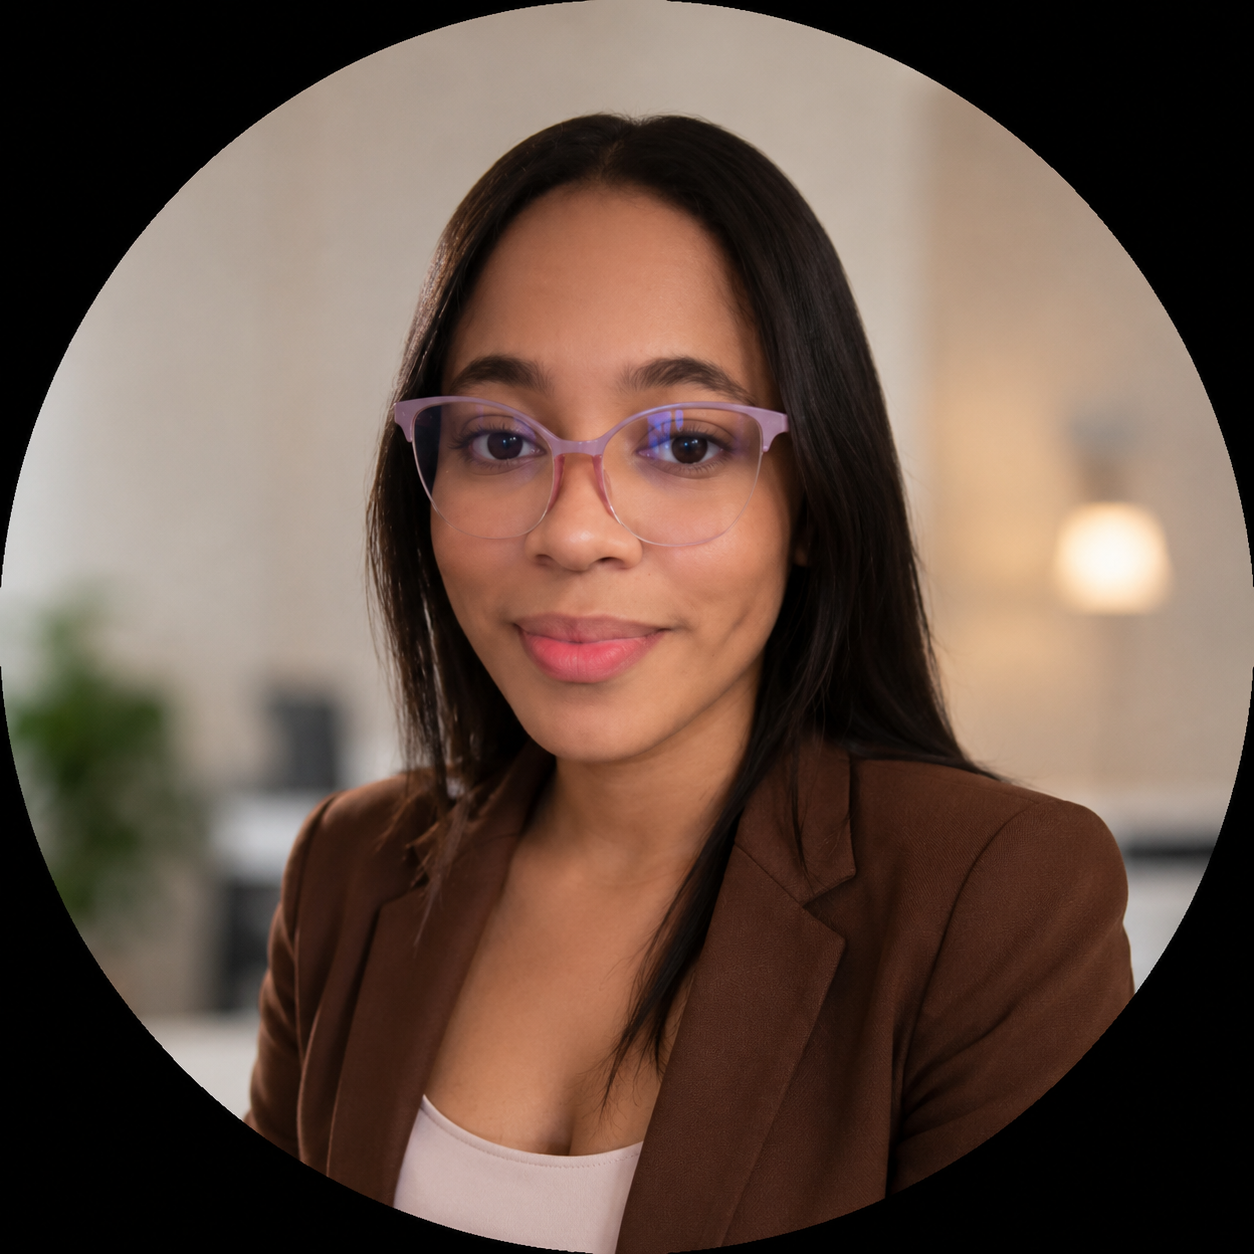
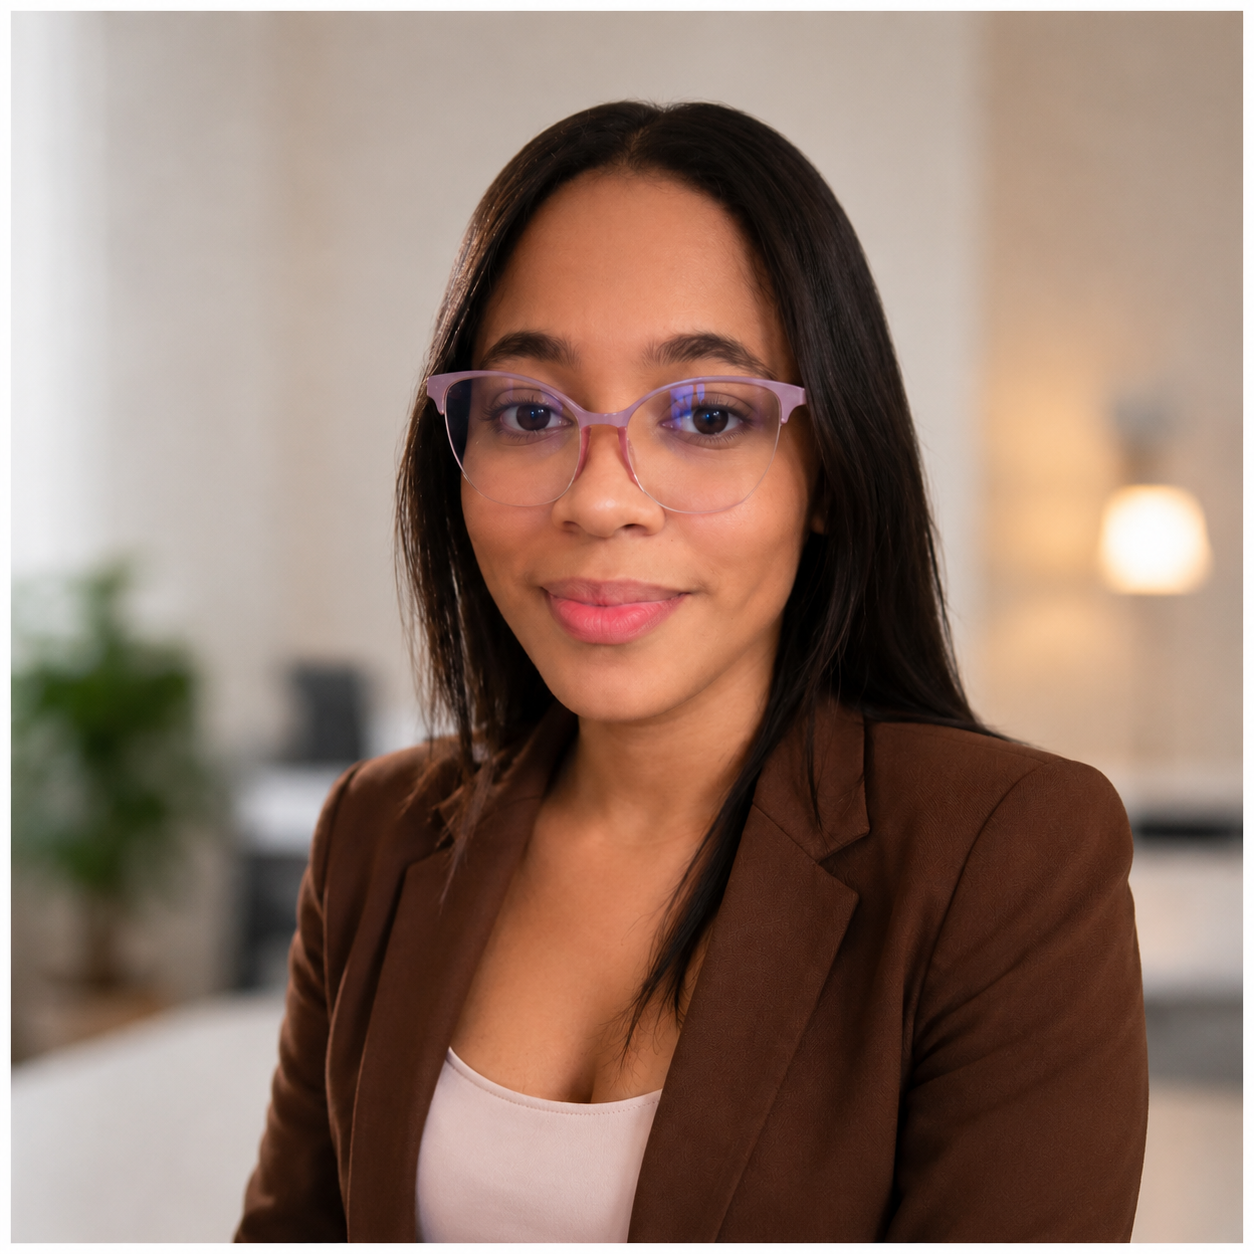
cambios del portafolio

diff --git a/index.html b/index.html
@@ -37,7 +37,7 @@
 
                     <p class="hero-text">
                         Desarrollo aplicaciones web modernas, escalables y orientadas a
-                        resultados utilizando Java, Spring Boot, React y bases de datos SQL.
+                        resultados utilizando Java, Spring Boot, y bases de datos SQL.
                     </p>
 
                     <div class="hero-buttons">
@@ -58,34 +58,17 @@
                     <div class="profile-card">
                         <div class="profile-card-info">
                             <h3>Stefany López</h3>
-                            <p class="role">Full Stack Developer</p>
+                            <a href="www.linkedin.com/in/stefany-lop"><p class="role"><i class="fa-brands fa-linkedin"></i> Linkedin</p></a>
                             <p class="location"><i class="fa-solid fa-location-dot"></i> Colombia</p>
                         </div>
 
-                        <div class="code-snippet" aria-hidden="true">
-                            <div class="code-dots">
-                                <span></span><span></span><span></span>
-                            </div>
-                            <pre><code><span class="tok-kw">@RestController</span>
-<span class="tok-kw">public class</span> <span class="tok-cls">ProjectController</span> {
-
-    <span class="tok-kw">@Autowired</span>
-    <span class="tok-kw">private final</span> ProjectService service;
-
-    <span class="tok-kw">@GetMapping</span>(<span class="tok-str">"/api/projects"</span>)
-    <span class="tok-kw">public</span> List&lt;Project&gt; <span class="tok-fn">getAll</span>() {
-        <span class="tok-kw">return</span> service.<span class="tok-fn">findAll</span>();
-    }
-}</code></pre>
-                            <span class="code-tag">SPRING BOOT · JAVA · REACT</span>
-                        </div>
-                    </div>
-
+            
                     <div class="photo-card">
                         <img src="./assets/img/perfil.png" alt="Foto de Stefany López">
                     </div>
                 </div>
             </div>
+        </div>
 
             <!-- Tarjeta de tecnologías -->
             <div class="tech-card">
@@ -119,14 +102,6 @@
                 </ul>
             </div>
         </section>
-
-        <!-- ===== MISIÓN ===== -->
-        <section class="mission">
-            <p class="mission-text">
-            Desarrollando aplicaciones web escalables, soluciones de inteligencia artificial y experiencias digitales fluidas.
-            </p>
-        </section>
-
         <!-- ===== SERVICIOS ===== -->
         <section class="services" id="servicios">
             <div class="services-grid">
@@ -135,7 +110,7 @@
                 <div class="services-intro">
                     <h2>¿Cómo puedo<br>ayudarte?</h2>
                     <p>
-                        Como Desarrolladora Full Stack, creo soluciones modernas, escalables y
+                        Como Desarrolladora Full Stack creo soluciones modernas, escalables y
                         orientadas al usuario.
                     </p>
                 </div>
@@ -150,7 +125,7 @@
                         <h3>Desarrollo Web</h3>
                         <p>Desarrollo de aplicaciones web modernas y responsivas utilizando tecnologías de vanguardia.</p>
                         <div class="service-tags">
-                            <span>React</span><span>Next.js</span><span>Tailwind CSS</span>
+                            <span>JavaScript</span><span>node.js</span><span>Tailwind CSS</span>
                         </div>
                     </article>
 
@@ -211,12 +186,26 @@
                         <h3>E-commerce Full Stack</h3>
                         <p>Plataforma de ventas online con carrito, pagos y panel de administración.</p>
                         <div class="project-tags">
-                            <span>Java</span><span>Spring Boot</span><span>React</span><span>MySQL</span>
+                            <span>Java</span><span>Spring Boot</span><span>javaScript</span><span>MySQL</span>
                         </div>
                         <a href="https://trendyshop20.vercel.app/" class="project-link">Ver proyecto <i class="fa-solid fa-arrow-right"></i></a>
                     </div>
                 </article>
+                <article class="project-card">
+                    <div class="project-thumb project-thumb-1">
+                        <img src="./assets/img/proyecto_2.png" alt="pruecto_1">
+                    </div>
+                    <div class="project-body">
+                        <h3>Control de Horas y Proyectos</h3>
+                        <p>Sistema web para gestionar proyectos, asignar empleados y registrar las horas trabajadas por cada uno, con autenticación segura y roles de usuario.</p>
+                        <div class="project-tags">
+                            <span>Java</span><span>PHP</span><span>javaScript</span><span>MySQL</span>
+                        </div>
+                        <a href="https://controlproject.42web.io/" class="project-link">Ver proyecto <i class="fa-solid fa-arrow-right"></i></a>
+                    </div>
+                </article>
             </div>
+            
         </section>
 
         <!-- ===== EXPERIENCIA ===== -->

diff --git a/css/styles.css b/css/styles.css
@@ -233,54 +233,6 @@ a{ text-decoration: none; color: inherit; }
     margin-bottom: 14px;
 }
 
-.code-snippet{
-    background: #16121F;
-    border-radius: var(--radius-md);
-    padding: 16px 16px 14px;
-    position: relative;
-    overflow: hidden;
-}
-
-.code-dots{
-    display: flex;
-    gap: 6px;
-    margin-bottom: 12px;
-}
-
-.code-dots span{
-    width: 9px;
-    height: 9px;
-    border-radius: 50%;
-    display: inline-block;
-}
-
-.code-dots span:nth-child(1){ background:#FF5F57; }
-.code-dots span:nth-child(2){ background:#FEBC2E; }
-.code-dots span:nth-child(3){ background:#28C840; }
-
-.code-snippet pre{
-    font-family: var(--font-mono);
-    font-size: 11px;
-    line-height: 1.65;
-    color: #C9C6DA;
-    overflow-x: auto;
-    white-space: pre;
-}
-
-.tok-kw{ color: #C792EA; }
-.tok-cls{ color: #82AAFF; }
-.tok-fn{ color: #82D5FF; }
-.tok-str{ color: #C3E88D; }
-
-.code-tag{
-    display: block;
-    margin-top: 12px;
-    font-size: 9.5px;
-    letter-spacing: 0.12em;
-    color: var(--purple-400);
-    font-weight: 600;
-    text-align: center;
-}
 
 .photo-card{
     border-radius: var(--radius-lg);
@@ -293,7 +245,7 @@ a{ text-decoration: none; color: inherit; }
     width: 100%;
     height: 100%;
     object-fit: cover;
-    aspect-ratio: 3/4;
+    aspect-ratio: 4/5;
 }
 
 /* ---- Tarjeta de tecnologías ---- */
@@ -360,7 +312,7 @@ a{ text-decoration: none; color: inherit; }
 /* ============ MISIÓN ============ */
 .mission{
     background: linear-gradient(100deg, var(--teal-600), var(--teal-500));
-    margin: 56px calc(50% - 50vw) 0;
+    margin: 10px calc(40% - 40vw) 0;
     padding: 56px 24px 40px;
     text-align: center;
 }